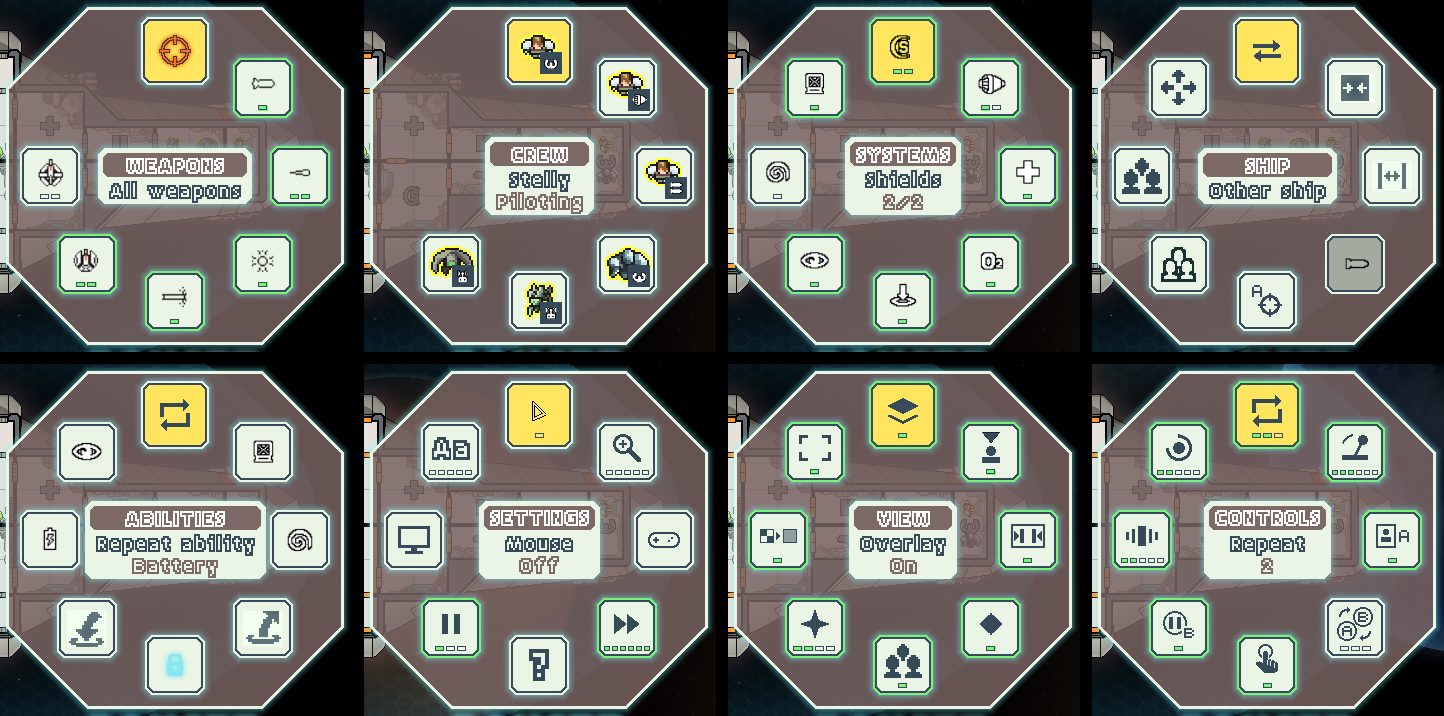
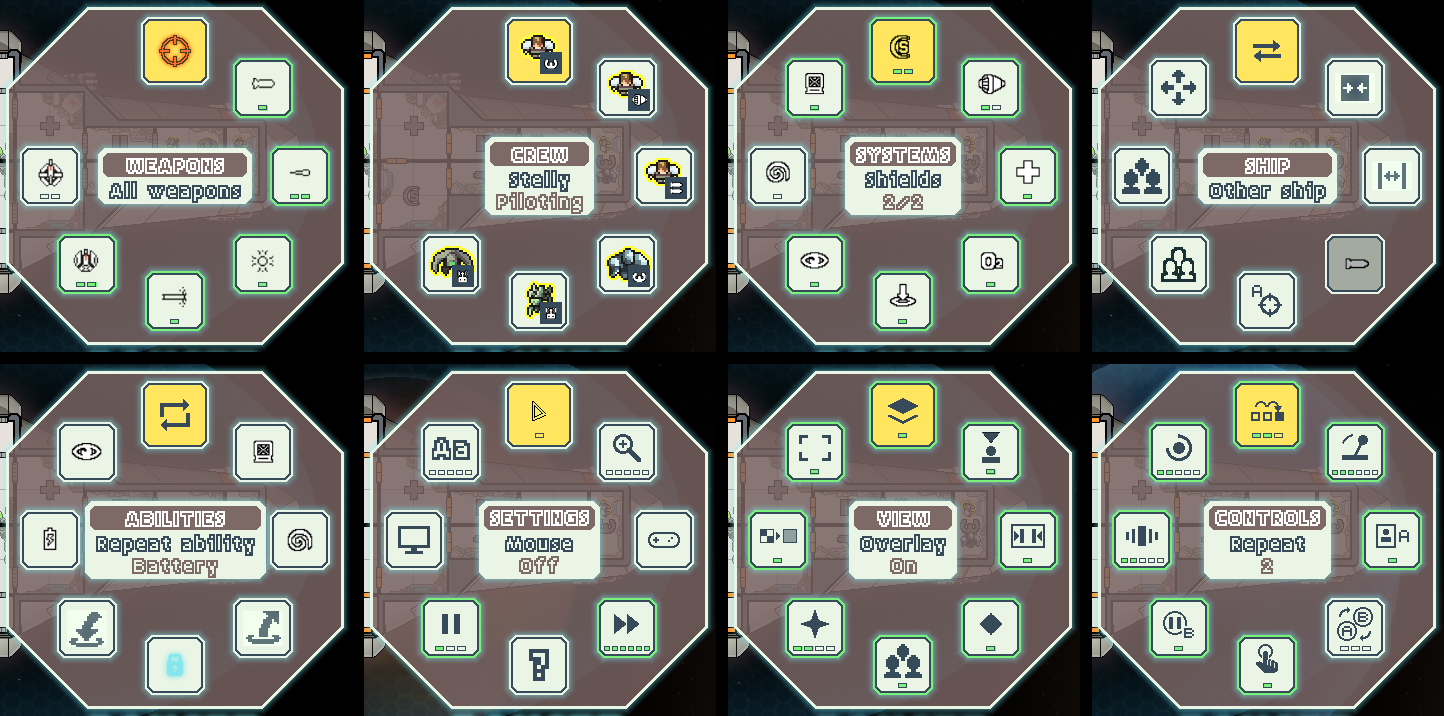
feat(settings): focus repeat hop glyph

Changed region(s): [[0.7479, 0.4916, 1.0, 0.9218], [0.8726, 0.9832, 0.9349, 1.0], [0.8726, 0.5531, 0.9037, 0.5838]]

diff --git a/src/ui/glyph.rs b/src/ui/glyph.rs
@@ -104,6 +104,14 @@ const REPEAT_SHAFT: f32 = 4.0;
 const REPEAT_HEAD_W: f32 = 7.0;
 const REPEAT_HEAD_H: f32 = 12.0;
 const REPEAT_GAP: f32 = 2.0;
+/// The focus repeat glyph: HOP_ZONES squares HOP_ZONE wide, HOP_STEP apart, the last filled, and
+/// half rings of HOP_STEP across arcing from each zone to the next, the last ending in a head.
+const HOP_ZONES: usize = 3;
+const HOP_ZONE: f32 = 9.0;
+const HOP_STEP: f32 = 12.0;
+const HOP_LINE: f32 = 2.0;
+const HOP_HEAD_W: f32 = 8.0;
+const HOP_HEAD_H: f32 = 6.0;
 /// The pad glyph: a pill's outline PAD_W by PAD_H, a D-pad's cross PAD_CROSS long in its left
 /// end and two PAD_BUTTON squares in its right one, the second up and right of the first.
 const PAD_W: f32 = 32.0;
@@ -253,6 +261,8 @@ pub(super) enum Glyph {
     Autofire,
     /// Two arrows chasing each other round a loop.
     Repeat,
+    /// The focus hopping from zone to zone.
+    FocusRepeat,
     /// A pad's outline with a D-pad and two buttons.
     Pad,
     /// A hand pointing up with a ring round its fingertip.
@@ -431,6 +441,30 @@ pub(super) fn draw_glyph(glyph: Glyph, font: i32, cx: f32, cy: f32, size: f32) {
             let side_h = REPEAT_H - head_h / 2.0 - REPEAT_GAP + t / 2.0;
             draw_rect(left, upper - t / 2.0, t, side_h, INK_COLOR);
             draw_rect(right - t, lower + t / 2.0 - side_h, t, side_h, INK_COLOR);
+        }
+        Glyph::FocusRepeat => {
+            let r = HOP_STEP / 2.0;
+            let last = (HOP_ZONES - 1) as f32 * HOP_STEP;
+            // The head starts on the hops' bottom row.
+            let drop = HOP_HEAD_H - OVERLAY_LINE;
+            let (w, h) = (last + HOP_ZONE, r + drop + HOP_ZONE);
+            let (left, top) = ((cx - w / 2.0).round(), (cy - h / 2.0).round());
+            let (arc_y, zone_top) = (top + r, top + r + drop);
+            // On whole pixels: every hop keeps one shape.
+            let hop_mid = |zone: f32| (zone + HOP_ZONE / 2.0 - r).floor();
+            for k in 0..HOP_ZONES {
+                let x = left + k as f32 * HOP_STEP;
+                if k + 1 < HOP_ZONES {
+                    draw_outline(x, zone_top, HOP_ZONE, HOP_ZONE, HOP_LINE, INK_COLOR);
+                } else {
+                    draw_rect(x, zone_top, HOP_ZONE, HOP_ZONE, INK_COLOR);
+                }
+                if k > 0 {
+                    draw_pixel_arc(hop_mid(x), arc_y, r, HOP_LINE, (TURN_DEG / 2.0, TURN_DEG), INK_COLOR);
+                }
+            }
+            let head_x = hop_mid(left + last) + r - HOP_LINE / 2.0;
+            draw_down_triangle(head_x, zone_top, HOP_HEAD_W, HOP_HEAD_H, INK_COLOR);
         }
         Glyph::Pad => {
             // On whole pixels: the pill and the cross stay symmetric.

diff --git a/src/ui/draw.rs b/src/ui/draw.rs
@@ -539,14 +539,19 @@ pub fn draw_chevron(cx: f32, cy: f32, w: f32, h: f32, thick: f32, color: GlColor
 /// one line wider; out of one-line rows like a disc.
 pub fn draw_down_marker(cx: f32, tip: f32, w: f32, h: f32, color: GlColor) {
     for (grow, shade) in [(OVERLAY_LINE, PLATE_BEVEL_COLOR), (0.0, color)] {
-        let (w, h) = (w + 2.0 * grow, h + 2.0 * grow);
-        let top = tip + grow - h;
-        let mut row = 0.0;
-        while row < h {
-            let half = w / 2.0 * (1.0 - row / h);
-            draw_rect(cx - half, top + row, 2.0 * half, OVERLAY_LINE, shade);
-            row += OVERLAY_LINE;
-        }
+        draw_down_triangle(cx, tip + grow, w + 2.0 * grow, h + 2.0 * grow, shade);
+    }
+}
+
+/// A triangle pointing down, `w` wide and `h` tall, its tip at (`cx`, `tip`); out of one-line
+/// rows like a disc.
+pub fn draw_down_triangle(cx: f32, tip: f32, w: f32, h: f32, color: GlColor) {
+    let top = tip - h;
+    let mut row = 0.0;
+    while row < h {
+        let half = w / 2.0 * (1.0 - row / h);
+        draw_rect(cx - half, top + row, 2.0 * half, OVERLAY_LINE, color);
+        row += OVERLAY_LINE;
     }
 }
 

diff --git a/src/ui/plates.rs b/src/ui/plates.rs
@@ -184,7 +184,7 @@ fn setting_glyph(key: &str) -> Option<Glyph> {
         HUD_SHIFT_KEY => Some(Glyph::HudShift),
         FRAME_FILTER_KEY => Some(Glyph::FrameFilter),
         IPAD_BEACONS_KEY => Some(Glyph::Beacon),
-        FOCUS_REPEAT_KEY => Some(Glyph::Repeat),
+        FOCUS_REPEAT_KEY => Some(Glyph::FocusRepeat),
         TOUCH_KEY => Some(Glyph::Touch),
         ROOM_CREW_PICK_KEY => Some(Glyph::RoomCrew),
         TAP_HOLD_KEY => Some(Glyph::HoldTime),

diff --git a/src/ui/wheel.rs b/src/ui/wheel.rs
@@ -1340,7 +1340,7 @@ mod tests {
             let p = plates(&mut l, layout);
             let glyphs = [0, 1, 3, 4, 5, 7].map(|i| p[i].glyph);
             let drawn = [
-                Glyph::Repeat,
+                Glyph::FocusRepeat,
                 Glyph::Stick,
                 Glyph::Buttons(LETTER_A, LETTER_B),
                 Glyph::Touch,
